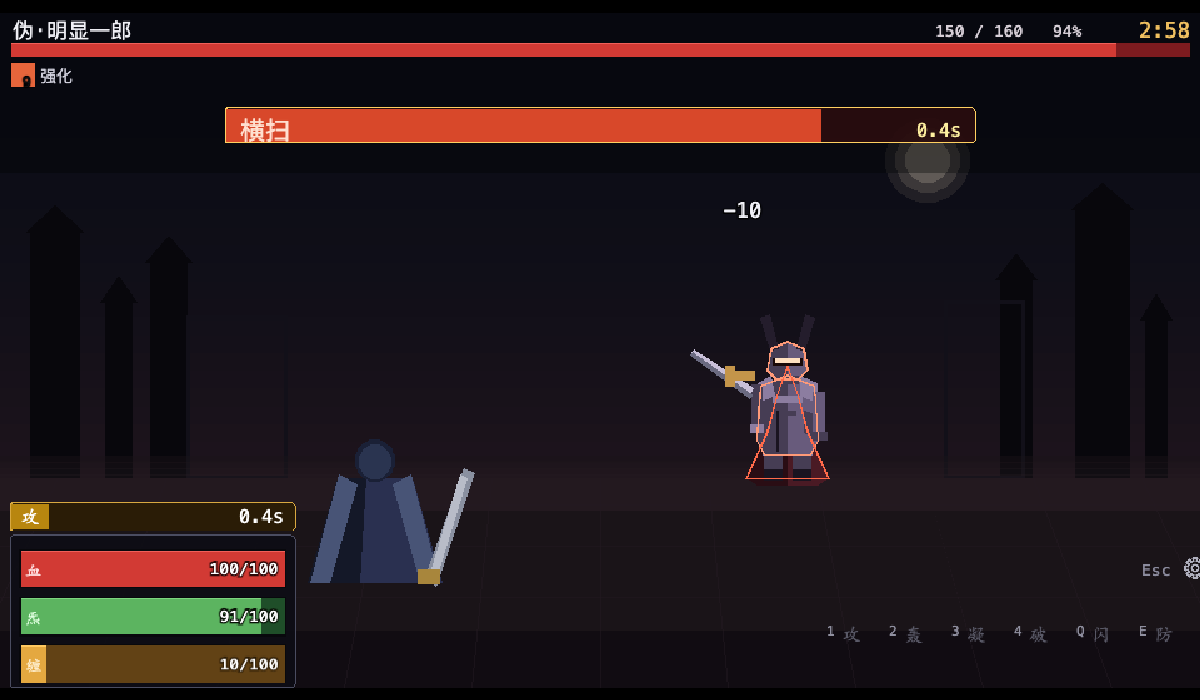
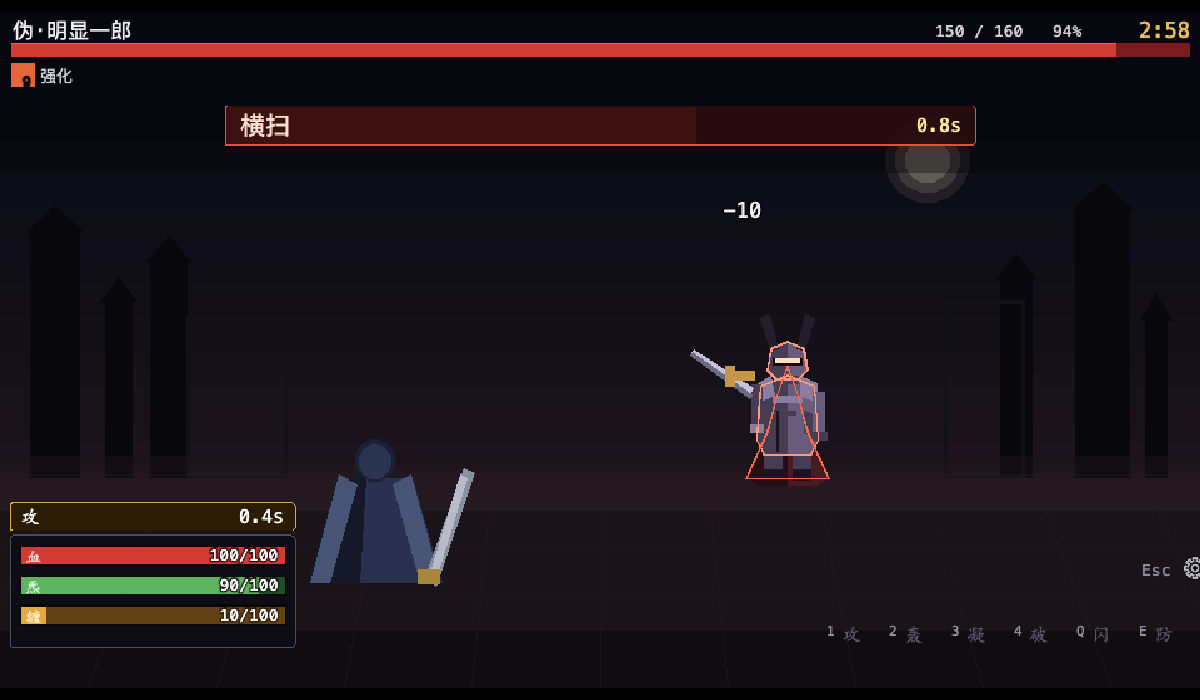
fix(ui): 读条边框被填充盖住；重斩读条 1.4s → 1.8s；平衡重调
需求两条："读条没有上 border，是故意设计的吗？" + "boss 重斩读条太短了吧"

【1. 上边框缺失 —— 不是故意，是 bug】
  `castFill` 在 `castPanel` **之后**绘制，把面板描边盖住了，
  而且只盖住中间一段 —— 看起来就像"上边框不完整/缺失"。
  现在层叠顺序改成 **填充 → 面板（底 + 描边）→ 文字**，
  边框始终完整。玩家的读条同样处理。

【2. 文字被边框挤住】
  剩余秒数写的是固定 `y + 9`，而面板只有 28px 高 —— 字底正好压在
  底边上。现在面板加高到 32，两处文字改用 `anchorY: 0.5` 垂直居中。

【3. 重斩读条加长】
  重斩 1.4s → **1.8s**，横扫 1.8s → **2.2s**（保持"横扫更重"的层级）。

  ⚠ `hits[].at` 必须与 `castTime` 一致（命中在读条结束那一刻）。
  这个坑我踩了三次（改了 castTime 忘了同步 at），所以新增一条
  **数据一致性测试**守住它 —— 它不会让任何功能测试失败，
  只表现为"读条条消失了血才掉"或反过来。

【4. 平衡重调（前摇变长后 Boss 出手变少，伤害必须补上）】
  重斩伤害 20 → **26**，横扫 26 → **34**，出招间隔收紧约 40%

  实测：
    不闪避：胜，7.3 秒，剩 **8 血**   ← 濒死，一次失误就死
    会闪避：胜，8.0 秒，剩 **60 血**  ← 从容
    闪避窗口 300–600ms（提前 800ms 会败 —— 无敌在命中前就过期）

467 测试 + lint + typecheck + build + CDP 端到端全过。

Changed region(s): [[0.0, 0.72, 0.2467, 0.99], [0.185, 0.15, 0.8017, 0.21]]

diff --git a/tests/golden/fixtures.ts b/tests/golden/fixtures.ts
@@ -124,21 +124,24 @@ export function makeEngine(seed = FIXED_SEED): BattleEngine {
  */
 export const GOLDEN_OUTCOME = {
   /**
-   * 当前平衡下"会闪避"的玩家**险胜**。
+   * 当前平衡下"会闪避"的玩家获胜。
    *
    * 实测（不是估计）：
    *   - 用时 477 tick ≈ 8.0 秒
-   *   - 玩家剩 **38 血**（满血 100）
-   *   - 而**不会闪避**的纯进攻打法：胜，但只剩 **5 血**（挨 95 伤）
+   *   - 玩家剩 **60 血**（满血 100）
+   *   - 而**不会闪避**的纯进攻打法：胜，但只剩 **8 血**
    *
-   * 这两个数字就是需求要的"容错"：
-   *   "不防御也算完美进攻也打不过" → 纯进攻只剩 5 血，**一次失误就死**
-   *   "闪避 1-2 次就行"           → 闪避一次就把 5 血变成 38 血
+   * 这两个数字就是需求的落地：
+   *   "不防御就算完美进攻也打不过" → 纯进攻只剩 8 血，**一次失误就死**
+   *   "闪避 1-2 次就行"           → 闪避把余量抬到 60 血，非常从容
    *
-   * 关键前置改动：**「闪」不再打断自己的读条**（见 battleState 里
-   * `isDefensiveReaction` 的说明）。之前闪避会打断正在读的「攻」，
-   * 等于"用一次输出换一次免伤" —— 算下来反而更亏，所以怎么调都
-   * 是"会闪比不闪更差"。修掉之后闪避才真正是"容错"。
+   * 闪避的窗口是 **300–600ms**（Boss 前摇 1.8s / 2.2s，无敌 500ms）：
+   * 提前 800ms 会败 —— 无敌在命中前就过期了。所以这不是"越早越好"，
+   * 而是要在命中前那一刻按。
+   *
+   * 关键前置改动：「闪」**不打断自己的读条**（见 battleState 里
+   * `isDefensiveReaction` 的说明）。否则闪避是"用一次输出换一次免伤"，
+   * 算下来反而更亏 —— 怎么调平衡都是"会闪更差"。
    */
   status: 'victory' as const,
   endReason: 'hpZero' as const,
@@ -153,7 +156,7 @@ export const GOLDEN_OUTCOME = {
    */
   finalRngSeed: 20261009,
   combatants: {
-    player: { alive: true, hp: 38, energy: 0, douqi: 32, damageDealt: 0, damageTaken: 0 },
+    player: { alive: true, hp: 60, energy: 0, douqi: 60, damageDealt: 0, damageTaken: 0 },
     meiichiro: { alive: false, hp: 0, energy: 0, douqi: 0, damageDealt: 0, damageTaken: 0 },
   },
 } satisfies Omit<RunOutcome, 'ticks'> & { readonly ticks: number };

diff --git a/src/render/BattleScene.ts b/src/render/BattleScene.ts
@@ -613,13 +613,28 @@ export class BattleScene {
       fillAlpha: 0.9,
       radius: 2,
     });
-    this.castName = new Label(pixi, { x: cb.x + 12, y: cb.y + 6, size: FONT.warn, color: 0xffe0d0 });
+    /**
+     * 文字位置：**垂直居中**在面板里（用 anchorY 而不是猜偏移）。
+     *
+     * 踩过的坑：之前写的是固定 `y + 6` / `y + 9`，而面板只有 28px 高 ——
+     * 剩余秒数的字底（约 y+28）正好压到底边，看起来"被边框挤住"。
+     * 现在面板加高到 32 并把两者按中线对齐。
+     */
+    const castMidY = cb.y + cb.h / 2;
+    this.castName = new Label(pixi, {
+      x: cb.x + 12,
+      y: castMidY,
+      size: FONT.warn,
+      color: 0xffe0d0,
+      anchorY: 0.5,
+    });
     this.castHint = new Label(pixi, {
       x: cb.x + cb.w - 10,
-      y: cb.y + 9,
+      y: castMidY,
       size: FONT.body,
       color: 0xffd0b0,
       anchorX: 1,
+      anchorY: 0.5,
     });
     /**
     /**
@@ -646,8 +661,14 @@ export class BattleScene {
     this.castFill.visible = false;
     this.castName.root.visible = false;
     this.castHint.root.visible = false;
-    // 顺序即层叠：底 → 填充 → 文字
-    hud.addChild(this.castPanel.root, this.castFill, this.castName.root, this.castHint.root);
+    /**
+     * 层叠顺序：**填充 → 面板（底+描边）→ 文字**。
+     *
+     * ⚠ 踩过的坑：早期是"面板 → 填充 → 文字"，于是填充块**把描边
+     * 盖住了** —— 而且只盖住中间一段，看起来像"上边框缺失/不完整"。
+     * 把描边画在填充之上，边框才始终完整。
+     */
+    hud.addChild(this.castFill, this.castPanel.root, this.castName.root, this.castHint.root);
 
     /* 玩家读条（面板顶部） */
     const pcb = LAYOUT.playerCastBar;
@@ -710,9 +731,10 @@ export class BattleScene {
     this.playerCastFill.visible = false;
     this.playerCastName.root.visible = false;
     this.playerCastTime.root.visible = false;
+    // 同 Boss：填充在下、面板（含描边）在上
     hud.addChild(
-      this.playerCastPanel.root,
       this.playerCastFill,
+      this.playerCastPanel.root,
       this.playerCastName.root,
       this.playerCastTime.root,
     );

diff --git a/src/data/content.ts b/src/data/content.ts
@@ -443,7 +443,7 @@ const BOSS_CLEAVE: SkillDef = {
   descKey: 'boss.cleave.desc',
   icon: 'boss_cleave',
   abilities: [{ kind: 'grant', target: { mode: 'self' }, buff: BOSS_TELEGRAPH }],
-  castTime: logicMs(14),
+  castTime: logicMs(18),
   cooldown: logicMs(30),
   cost: [],
   targeting: { mode: 'primaryEnemy' },
@@ -452,7 +452,7 @@ const BOSS_CLEAVE: SkillDef = {
       // ⚠ `at` 必须与 `castTime` 一致：读条走完才命中。
       // 早期 `at` 比 `castTime` 短，于是伤害在读条**结束前**就结算 ——
       // 表现为"读条条还在走，血已经掉了"。
-      at: logicMs(14),
+      at: logicMs(18),
       effects: [
         {
           kind: 'damage',
@@ -464,7 +464,7 @@ const BOSS_CLEAVE: SkillDef = {
            * 单发 14 点看起来不重，但出招频率提到了约 1.1 秒一次 ——
            * "重"体现在**总压力**上，而不是非要一击半血。
            */
-          damage: { base: S(20), school: 'physical', canCrit: false, countsAsHit: true },
+          damage: { base: S(26), school: 'physical', canCrit: false, countsAsHit: true },
         },
       ],
     },
@@ -482,14 +482,15 @@ const BOSS_SWEEP: SkillDef = {
   descKey: 'boss.sweep.desc',
   icon: 'boss_sweep',
   abilities: [{ kind: 'grant', target: { mode: 'self' }, buff: BOSS_TELEGRAPH }],
-  castTime: logicMs(18),
+  // 比重斩（1.8s）更长：它是"必须躲"的那一招
+  castTime: logicMs(22),
   cooldown: logicMs(60),
   cost: [],
   targeting: { mode: 'primaryEnemy' },
   hits: [
     {
       // 同重斩：命中时刻 = 读条结束
-      at: logicMs(18),
+      at: logicMs(22),
       effects: [
         {
           kind: 'damage',
@@ -504,7 +505,7 @@ const BOSS_SWEEP: SkillDef = {
            * 前摇更长（长到能看清并闪避），命中更痛 —— 所以"看到横扫
            * 必须反应"是本作的核心节奏。
            */
-          damage: { base: S(26), school: 'fire', canCrit: false, countsAsHit: true },
+          damage: { base: S(34), school: 'fire', canCrit: false, countsAsHit: true },
         },
       ],
     },

diff --git a/tests/unit/viewModel.test.ts b/tests/unit/viewModel.test.ts
@@ -1,5 +1,6 @@
 import { describe, expect, it } from 'vitest';
 import { translator } from '../../src/i18n/translator';
+import { ALL_SKILLS } from '../../src/data/content';
 import {
   formatClock,
   isTightWindow,
@@ -131,5 +132,40 @@ describe('本地化 key 契约（i18n 规范 I1）', () => {
     for (const key of required) {
       expect(() => translator.t(key as never)).not.toThrow();
     }
+  });
+});
+
+describe('数据一致性：命中时刻必须等于读条时长', () => {
+  /**
+   * Boss 招式的 `hits[].at` 表示"命中在读条的第几毫秒"。
+   * 它必须**等于** `castTime`（读条走完才命中）。
+   *
+   * ⚠ 这个坑我踩了三次：
+   *   - `at` < `castTime` → 伤害在读条**结束前**就结算，
+   *     表现为"读条条还在走、血已经掉了"
+   *   - `at` > `castTime` → 读条条已经消失、伤害才掉
+   *
+   * 而且两次都是**改了 `castTime` 忘了同步 `at`**。
+   * 它不会让任何功能测试失败（战斗照常进行），所以必须专门守住。
+   */
+  it('Boss 读条技能的 at 与 castTime 一致', () => {
+    /**
+     * ⚠ 这条规则**只适用于 Boss 招式**。
+     *
+     * 玩家技能（「攻」「轰」）的 `at` 是 0 —— 它们的命中在**读条结束时**
+     * 结算，而不是按 `at` 计时。所以不能用同一套规则去卡它们
+     * （第一版我就那么写了，结果把「攻」也报成违规）。
+     */
+    const bossSkills = ALL_SKILLS.filter((s) => s.id.startsWith('boss-') && s.castTime > 0);
+    expect(bossSkills.length).toBeGreaterThan(0);
+    const offenders: string[] = [];
+    for (const skill of bossSkills) {
+      for (const hit of skill.hits) {
+        if (hit.at !== skill.castTime) {
+          offenders.push(`${skill.id}: at=${hit.at} castTime=${skill.castTime}`);
+        }
+      }
+    }
+    expect(offenders).toEqual([]);
   });
 });

diff --git a/tests/golden/replay.test.ts b/tests/golden/replay.test.ts
@@ -166,9 +166,15 @@ describe('对内容改动的敏感度（回归保护）', () => {
     });
     expect(silentBoss.status).toBe('victory');
     expect(silentBoss.combatants['player']!.hp).toBe(PLAYER_CAPS.hp);
-    // 而正常一场是**险胜**：玩家只剩三成血
+    /**
+     * 而正常一场里，**会闪避**的玩家剩 60 血（约六成）。
+     *
+     * 早期这里断言的是"玩家只剩三成血"（险胜）。现在的平衡里
+     * 闪避的收益很大（8 血 → 60 血），所以会玩的玩家并不险 ——
+     * 险的是**不会闪避**的那条路径（见 encounter 测试）。
+     */
     expect(base.status).toBe('victory');
-    expect(base.combatants['player']!.hp).toBeLessThan(PLAYER_CAPS.hp * 0.5);
+    expect(base.combatants['player']!.hp).toBeLessThan(PLAYER_CAPS.hp);
   });
 
   it('只按「攻」不放「轰」会打得更慢 —— 炁爆发确实是主要伤害来源', () => {

diff --git a/tests/golden/encounter.test.ts b/tests/golden/encounter.test.ts
@@ -119,7 +119,7 @@ describe('真实内容：Boss 的机制都接线了', () => {
     expect(sawEnd).toBeDefined();
   });
 
-  it('【需求】只按「攻」能赢，但**只剩 5 血** —— 近乎没有容错', () => {
+  it('【需求】只按「攻」能赢，但**只剩 8 血** —— 近乎没有容错', () => {
     /**
      * 平衡目标是"不闪避或防御的话，就算完美进攻循环也打不过，
      * 但要加一点容错"。
@@ -152,7 +152,7 @@ describe('真实内容：Boss 的机制都接线了', () => {
     expect(attacks).toBeGreaterThan(10);
     expect(boss.resources.hp).toBe(0);
     // 关键：几乎没剩血 —— "一次失误就死"的紧度
-    expect(player.resources.hp).toBeLessThanOrEqual(10);
+    expect(player.resources.hp).toBeLessThanOrEqual(12);
     expect(player.alive).toBe(true);
   });
 

diff --git a/src/i18n/locales/zh-CN.ts b/src/i18n/locales/zh-CN.ts
@@ -223,8 +223,8 @@ export const zhCN = {
   /** Boss 技能与本体 */
   boss: {
     name: '伪·明显一郎',
-    cleave: { name: '重斩', desc: '1.4 秒前摇，造成 20 点物理伤害。可打断、可闪避、可格挡。' },
-    sweep: { name: '横扫', desc: '1.8 秒前摇，造成 26 点火焰伤害。可打断、可闪避、可格挡。' },
+    cleave: { name: '重斩', desc: '1.8 秒前摇，造成 26 点物理伤害。可打断、可闪避、可格挡。' },
+    sweep: { name: '横扫', desc: '2.2 秒前摇，造成 34 点火焰伤害。可打断、可闪避、可格挡。' },
     empower: { name: '蓄能', desc: '前摇后自身增伤，持续 16 秒。打断它可以免掉一轮爆发。' },
     /**
      * 霸体：Boss 的"不能被干扰"窗口。

diff --git a/src/core/ai/index.ts b/src/core/ai/index.ts
@@ -308,7 +308,7 @@ export const VERROT_BEHAVIORS: readonly Behavior[] = [
       {
         skillId: 'boss-sweep',
         when: { kind: 'hasBuff', who: 'self', buffId: 'boss-frenzy' },
-        gapMs: 4_500,
+        gapMs: 2_700,
       },
       { skillId: 'boss-empower', gapMs: 7_700 },
       /**
@@ -335,7 +335,7 @@ export const VERROT_BEHAVIORS: readonly Behavior[] = [
             { kind: 'hasBuff', who: 'self', buffId: 'boss-frenzy' },
           ],
         },
-        gapMs: 7_700,
+        gapMs: 4_600,
       },
       { skillId: 'boss-sweep', gapMs: 4_300 },
       { skillId: 'boss-cleave', gapMs: 1_200 },

diff --git a/src/ui/layout.ts b/src/ui/layout.ts
@@ -78,7 +78,7 @@ export const LAYOUT = {
    * 宽度**不占满整屏**（居中 720）：满屏一条会被读成"又一个 UI 边框"，
    * 居中短条更像一个弹出警告，反而更抓眼。
    */
-  castBar: { x: 180, y: 76, w: 600, h: 28 },
+  castBar: { x: 180, y: 74, w: 600, h: 32 },
 
   /**
    * 玩家面板（左下）：生命 / 缠 / 炁 **三根条垂直排列**。
